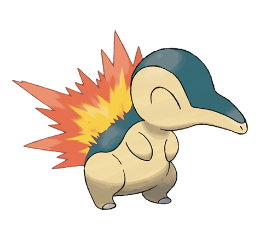
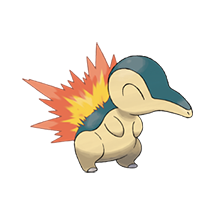
pokedex

Changed region(s): [[0.0558, 0.1116, 0.9767, 0.893]]

diff --git a/pokemons/quilava.html b/pokemons/quilava.html
@@ -10,25 +10,25 @@
     <link href="https://fonts.googleapis.com/css2?family=Press+Start+2P&display=swap" rel="stylesheet">
     <link rel="stylesheet" href="../css/style.css">
     <link rel="shortcut icon" type="image/xicon" href="../769px-Pokebola-pokeball-png-0.png">
-    <!--Link a la fuente de google, y link para conectar el css al html.-->
+   <!--Link a la fuente de google, link para conectar el css al html y link para establecer el favicon.-->
 
 </head>
 <body>
     <h1 class="titulo-C">Quilava</h1>
-    <img src="https://assets.pokemon.com/assets/cms2/img/pokedex/full/156.png" alt="Quilava" class="cindaquil-imag" >
+    <img src="../SMX2-M12-A13-Pokedex-imagenes/quilava+.png" alt="Quilava" class="cindaquil-imag" >
     <h3 class="evolucion">Evoluciones</h3>
-<ul><li class="primero">
-<a href="./cindaquil.html"><img src="https://assets.pokemon.com/assets/cms2/img/pokedex/detail/155.png" alt="Cyndaquil">
-<h3 class="match" style="min-height: 23px;">Cyndaquil</h3>
-</ul></a></li>            
-<li class="medio">
-<a href="./quilava.html">
-    <img src="https://assets.pokemon.com/assets/cms2/img/pokedex/detail/156.png" alt="Quilava">
-    <h3 class="match" style="min-height: 23px;">Quilava</h3>
+ <ul>
+    <li class="primero">
+        <a href="./cindaquil.html"><img src="../SMX2-M12-A13-Pokedex-imagenes/cyndaquil.png" alt="Cyndaquil">
+        <h3 class="match" style="min-height: 23px;">Cyndaquil</h3></a></li>            
+    <li class="medio">
+        <a href="./quilava.html">
+        <img src="../SMX2-M12-A13-Pokedex-imagenes/quilava.png" alt="Quilava">
+        <h3 class="match" style="min-height: 23px;">Quilava</h3>
     <li class="ultimo">
-    <a href="./typhlosion.html">
-    <img src="https://assets.pokemon.com/assets/cms2/img/pokedex/detail/157.png" alt="Typhlosion">
-    <h3 class="match" style="min-height: 23px;">Typhlosion</h3>
+        <a href="./typhlosion.html">
+        <img src="../SMX2-M12-A13-Pokedex-imagenes/typhlosion.png" alt="Typhlosion">
+        <h3 class="match" style="min-height: 23px;">Typhlosion</h3></a></li>
  <ul class="evolution-attributes match-height">
     </ul></a></li></ul></div>
     <p>Tipo: <span class="fuego">fuego</span></p>

diff --git a/pokemons/cindaquil.html b/pokemons/cindaquil.html
@@ -15,21 +15,21 @@
 </head>
 <body>
     <h1 class="titulo-C">Cindaquil</h1>
-    <img src="../SMX2-M12-A13-Pokedex-imagenes/cyndaquil.png" alt="Cindaquil" class="cindaquil-imag" >
+    <img src="../SMX2-M12-A13-Pokedex-imagenes/cyndaquil+.png" alt="Cindaquil" class="cindaquil-imag" >
     <h3 class="evolucion">Evoluciones</h3>
 
-    <ul><li class="primero">
-<a href="./cindaquil.html"><img src="https://assets.pokemon.com/assets/cms2/img/pokedex/detail/155.png" alt="Cyndaquil">
-<h3 class="match" style="min-height: 23px;">Cyndaquil</h3>
-</ul></a></li>            
-<li class="medio">
-<a href="./quilava.html">
-    <img src="https://assets.pokemon.com/assets/cms2/img/pokedex/detail/156.png" alt="Quilava">
-    <h3 class="match" style="min-height: 23px;">Quilava</h3>
+    <ul>   
+    <li class="primero">
+        <a href="./cindaquil.html"><img src="../SMX2-M12-A13-Pokedex-imagenes/cyndaquil.png" alt="Cyndaquil">
+        <h3 class="match" style="min-height: 23px;">Cyndaquil</h3></a></li>            
+    <li class="medio">
+        <a href="./quilava.html">
+        <img src="../SMX2-M12-A13-Pokedex-imagenes/quilava.png" alt="Quilava">
+        <h3 class="match" style="min-height: 23px;">Quilava</h3>
     <li class="ultimo">
-    <a href="./typhlosion.html">
-    <img src="https://assets.pokemon.com/assets/cms2/img/pokedex/detail/157.png" alt="Typhlosion">
-    <h3 class="match" style="min-height: 23px;">Typhlosion</h3>
+        <a href="./typhlosion.html">
+        <img src="../SMX2-M12-A13-Pokedex-imagenes/typhlosion.png" alt="Typhlosion">
+        <h3 class="match" style="min-height: 23px;">Typhlosion</h3></a></li>
  <ul class="evolution-attributes match-height">
     </ul></a></li></ul></div>
     <!--Lista con las evoluciones del pokemon, donde está la imagen del pokemon evolucionado, y un enlace para acceder a su pagina html-->

diff --git a/pokemons/typhlosion.html b/pokemons/typhlosion.html
@@ -15,19 +15,19 @@
 </head>
 <body>
     <h1 class="titulo-C">Typhlosion</h1>
-    <img src="https://assets.pokemon.com/assets/cms2/img/pokedex/full/157.png" alt="Typhlosion" class="cindaquil-imag" >
+    <img src="../SMX2-M12-A13-Pokedex-imagenes/typhlosion+.png" alt="Typhlosion" class="cindaquil-imag" >
     <h3 class="evolucion">Evoluciones</h3>
 <ul>
     <li class="primero">
-        <a href="./cindaquil.html"><img src="https://assets.pokemon.com/assets/cms2/img/pokedex/detail/155.png" alt="Cyndaquil">
+        <a href="./cindaquil.html"><img src="../SMX2-M12-A13-Pokedex-imagenes/cyndaquil.png" alt="Cyndaquil">
         <h3 class="match" style="min-height: 23px;">Cyndaquil</h3></a></li>            
     <li class="medio">
         <a href="./quilava.html">
-        <img src="https://assets.pokemon.com/assets/cms2/img/pokedex/detail/156.png" alt="Quilava">
+        <img src="../SMX2-M12-A13-Pokedex-imagenes/quilava.png" alt="Quilava">
         <h3 class="match" style="min-height: 23px;">Quilava</h3>
     <li class="ultimo">
         <a href="./typhlosion.html">
-        <img src="https://assets.pokemon.com/assets/cms2/img/pokedex/detail/157.png" alt="Typhlosion">
+        <img src="../SMX2-M12-A13-Pokedex-imagenes/typhlosion.png" alt="Typhlosion">
         <h3 class="match" style="min-height: 23px;">Typhlosion</h3></a></li>
 </ul>
     <p>Tipo: <span class="fuego">fuego</span></p>

diff --git a/pokemons/emboar.html b/pokemons/emboar.html
@@ -10,12 +10,12 @@
     <link href="https://fonts.googleapis.com/css2?family=Press+Start+2P&display=swap" rel="stylesheet">
     <link rel="stylesheet" href="../css/style.css">
     <link rel="shortcut icon" type="image/xicon" href="../769px-Pokebola-pokeball-png-0.png">
-    <!--Link a la fuente de google, y link para conectar el css al html.-->
+   <!--Link a la fuente de google, link para conectar el css al html y link para establecer el favicon.-->
 
 </head>
 <body>
     <h1 class="titulo-C">Emboar</h1>
-    <img src="https://assets.pokemon.com/assets/cms2/img/pokedex/full/500.png" alt="Emboar" class="cindaquil-imag" >
+    <img src="../SMX2-M12-A13-Pokedex-imagenes/emboar.png" alt="Emboar" class="cindaquil-imag" >
     <p>Tipo: <span class="fuego">fuego</span></p>
     <p>Descripción:</p>
     <p>Calienta sus puños con las llamas de su barbilla para propinar puñetazos ardientes. Es muy fiel a sus compañeros.</p>

diff --git a/pokemons/cobalion.html b/pokemons/cobalion.html
@@ -16,7 +16,7 @@
     <div>
         <h1 class="titulo-C">Cobalion</h1>
     </div>
-    <img src="https://assets.pokemon.com/assets/cms2/img/pokedex/full/638.png" alt="Cobalion" class="cindaquil-imag" >
+    <img src="../SMX2-M12-A13-Pokedex-imagenes/cobalion.png" alt="Cobalion" class="cindaquil-imag" >
     <p>Tipo: <span class="acero">Acero</span></p>
     <p>Descripción:</p>
     <p>Cuenta una leyenda que combatió contra los humanos junto a Terrakion y Virizion para proteger a los Pokémon de Teselia.</p>

diff --git a/pokemons/gengar.html b/pokemons/gengar.html
@@ -10,6 +10,7 @@
     <link href="https://fonts.googleapis.com/css2?family=Press+Start+2P&display=swap" rel="stylesheet">
     <link rel="stylesheet" href="../css/style.css">
     <link rel="shortcut icon" type="image/xicon" href="../769px-Pokebola-pokeball-png-0.png">
+    <!--Link a la fuente de google, link para conectar el css al html y link para establecer el favicon.-->
 </head>
 <body>
     <h1 class="titulo-C">Gengar</h1>

diff --git a/pokemons/mew.html b/pokemons/mew.html
@@ -10,6 +10,7 @@
     <link href="https://fonts.googleapis.com/css2?family=Press+Start+2P&display=swap" rel="stylesheet">
     <link rel="stylesheet" href="../css/style.css">
     <link rel="shortcut icon" type="image/xicon" href="../769px-Pokebola-pokeball-png-0.png">
+    <!--Link a la fuente de google, link para conectar el css al html y link para establecer el favicon.-->
 </head>
 <body>
     <div>

diff --git a/pokemons/rayquaza.html b/pokemons/rayquaza.html
@@ -10,7 +10,7 @@
     <link rel="preconnect" href="https://fonts.gstatic.com" crossorigin>
     <link href="https://fonts.googleapis.com/css2?family=Press+Start+2P&display=swap" rel="stylesheet">
     <link rel="stylesheet" href="../css/style.css">
-
+   <!--Link a la fuente de google, link para conectar el css al html y link para establecer el favicon.-->
 </head>
 <body>
     <div>
